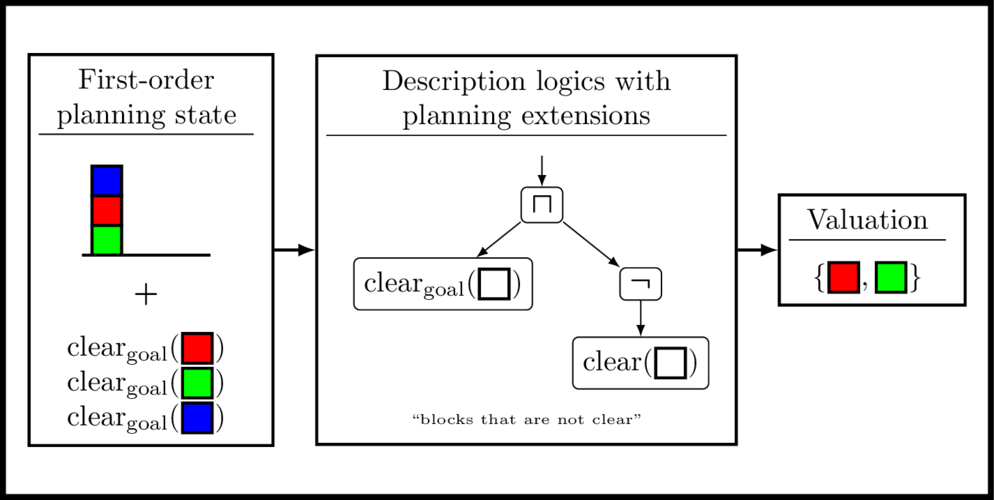
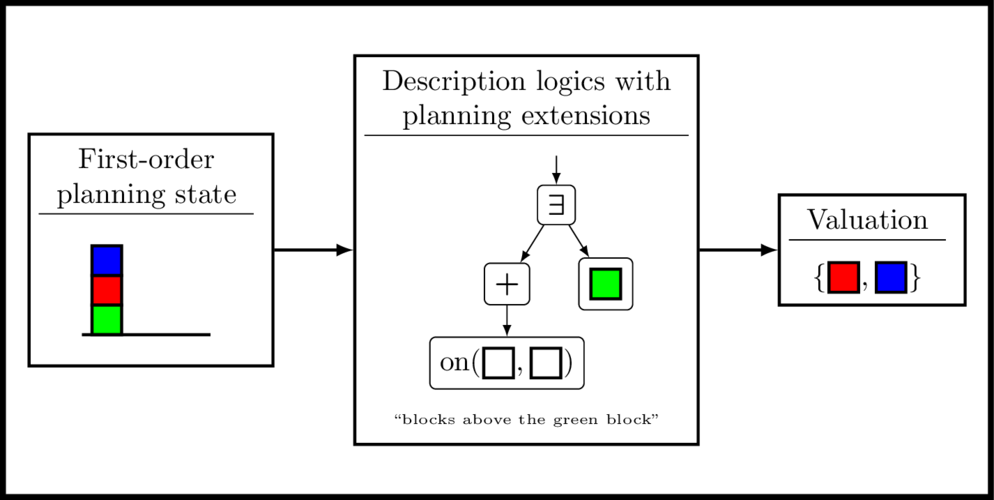
updated thumbnail

diff --git a/images/thumbnail.tex b/images/thumbnail.tex
@@ -27,12 +27,7 @@
             \node[align=center] (dummy) at (0,0) {\block{0.12}{green}{}};
             \node[align=center] (dummy) at (0,6) {\block{0.12}{blue}{}};
             \draw[line width=1] (-3,-1.5) -- (10,-1.5);
-        \end{tikzpicture} \\
-        $\boldsymbol{+}$ \\
-        \\[-5pt]
-        $\text{clear}_\text{goal}(\kern-3pt\raisebox{-3pt}{\block{0.12}{red}{}}\kern-3pt)$ \\
-        $\text{clear}_\text{goal}(\kern-3pt\raisebox{-3pt}{\block{0.12}{green}{}}\kern-3pt)$ \\
-        $\text{clear}_\text{goal}(\kern-3pt\raisebox{-3pt}{\block{0.12}{blue}{}}\kern-3pt)$
+        \end{tikzpicture}
     \end{tabular}
     };
 
@@ -43,25 +38,25 @@
             \rule{0pt}{30pt}
             \begin{tikzpicture}[scale=0.12]
                 \node[align=center] (dummy) at (0,40) {};
-                \node[draw, rectangle, rounded corners=2pt, align=center] (root) at (0,34) {$\boldsymbol{\sqcap}$};
-                \node[draw, rectangle, rounded corners=2pt, align=center] (n1) at (-10,26) {$\text{clear}_\text{goal}(\kern-3pt\raisebox{-3pt}{\block{0.12}{white}{}}\kern-3pt)$};
-                \node[draw, rectangle, rounded corners=2pt, align=center] (n2) at (10,26) {$\boldsymbol{\neg}$};
-                \node[draw, rectangle, rounded corners=2pt, align=center] (n3) at (10,18) {clear(\kern-3pt\raisebox{-3pt}{\block{0.12}{white}{}}\kern-3pt)};
+                \node[draw, rectangle, rounded corners=2pt, align=center] (root) at (0,34) {$\boldsymbol{\exists}$};
+                \node[draw, rectangle, rounded corners=2pt, align=center] (n1) at (-5,26) {$\boldsymbol{+}$};
+                \node[draw, rectangle, rounded corners=2pt, align=center] (n2) at (5,26) {$\kern-3pt\raisebox{-3pt}{\block{0.12}{green}{}}\kern-3pt$};
+                \node[draw, rectangle, rounded corners=2pt, align=center] (n3) at (-5,18) {$\text{on}(\kern-3pt\raisebox{-3pt}{\block{0.12}{white}{}}\kern-3pt,\kern-3pt\raisebox{-3pt}{\block{0.12}{white}{}}\kern-3pt)$};
 
                 \draw[-latex] (dummy) -- (root);
                 \draw[-latex] (root) -- (n1);
                 \draw[-latex] (root) -- (n2);
-                \draw[-latex] (n2) -- (n3);
+                \draw[-latex] (n1) -- (n3);
             \end{tikzpicture} \\
             %\hline
-            {\tiny ``blocks that are not clear''}
+            {\tiny ``blocks above the green block''}
         \end{tabular}};
     \node[draw, rectangle, line width=1pt, align=center] (valuation) at (88,25) {
         \begin{tabular}{c}
             Valuation \\
             \hline
             \\[-5pt]
-            $\{\kern-3pt\raisebox{-3pt}{\block{0.12}{red}{}}\kern-3pt,\kern-3pt\raisebox{-3pt}{\block{0.12}{green}{}}\kern-3pt\}$ \\
+            $\{\kern-3pt\raisebox{-3pt}{\block{0.12}{red}{}}\kern-3pt,\kern-3pt\raisebox{-3pt}{\block{0.12}{blue}{}}\kern-3pt\}$ \\
         \end{tabular}
     };
 
